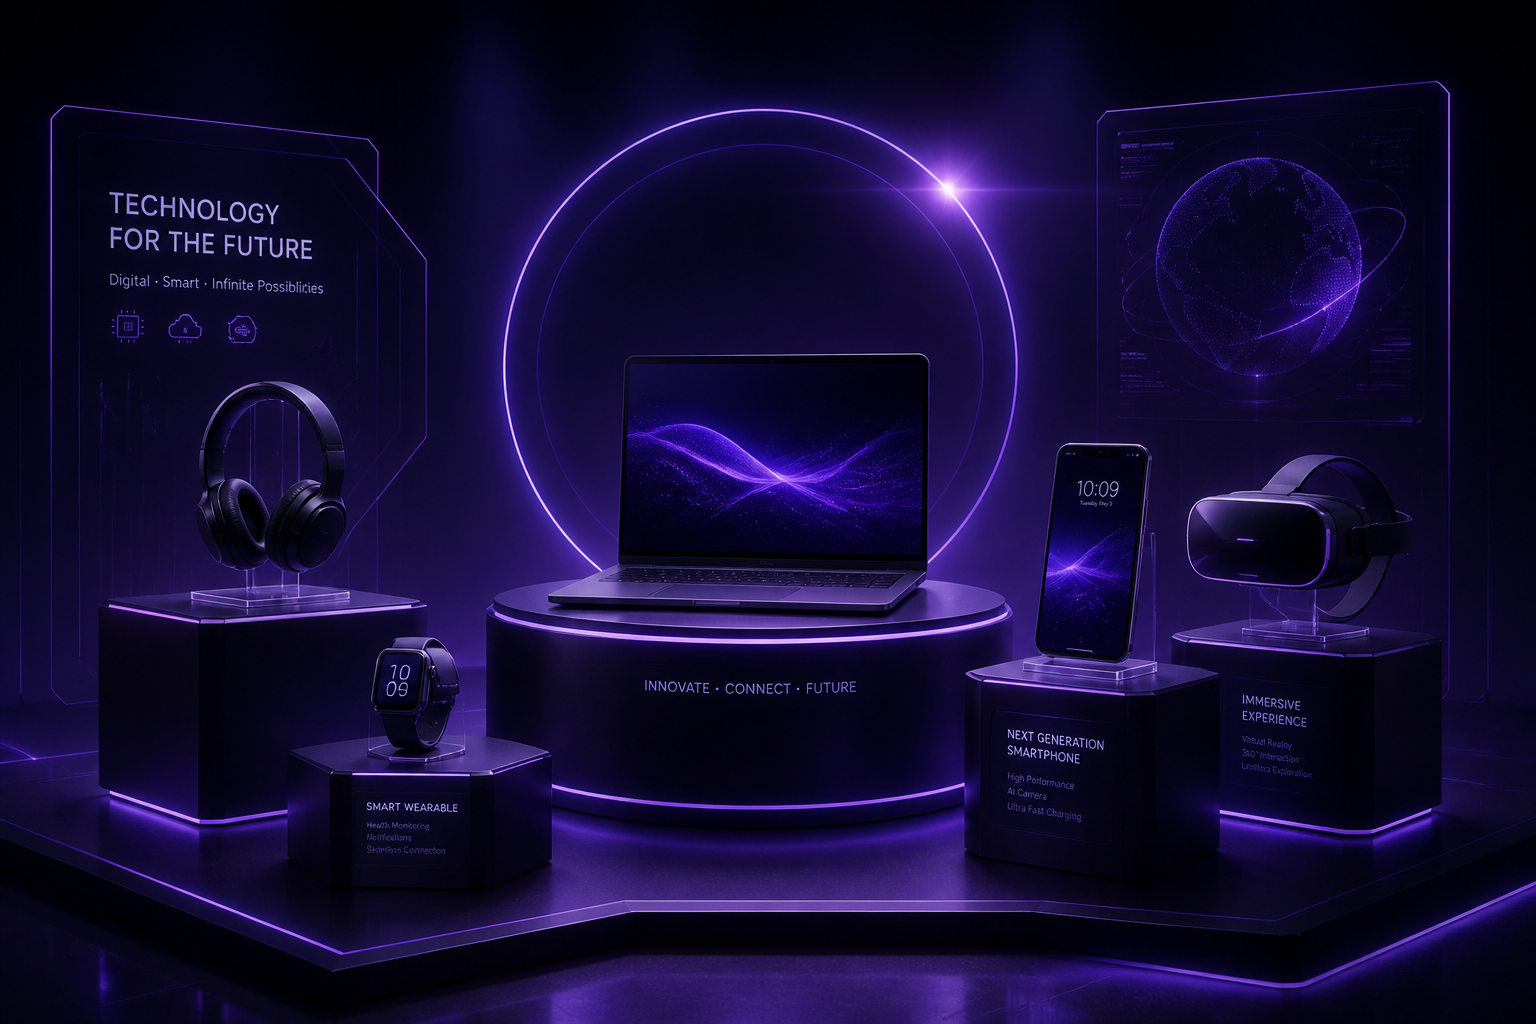
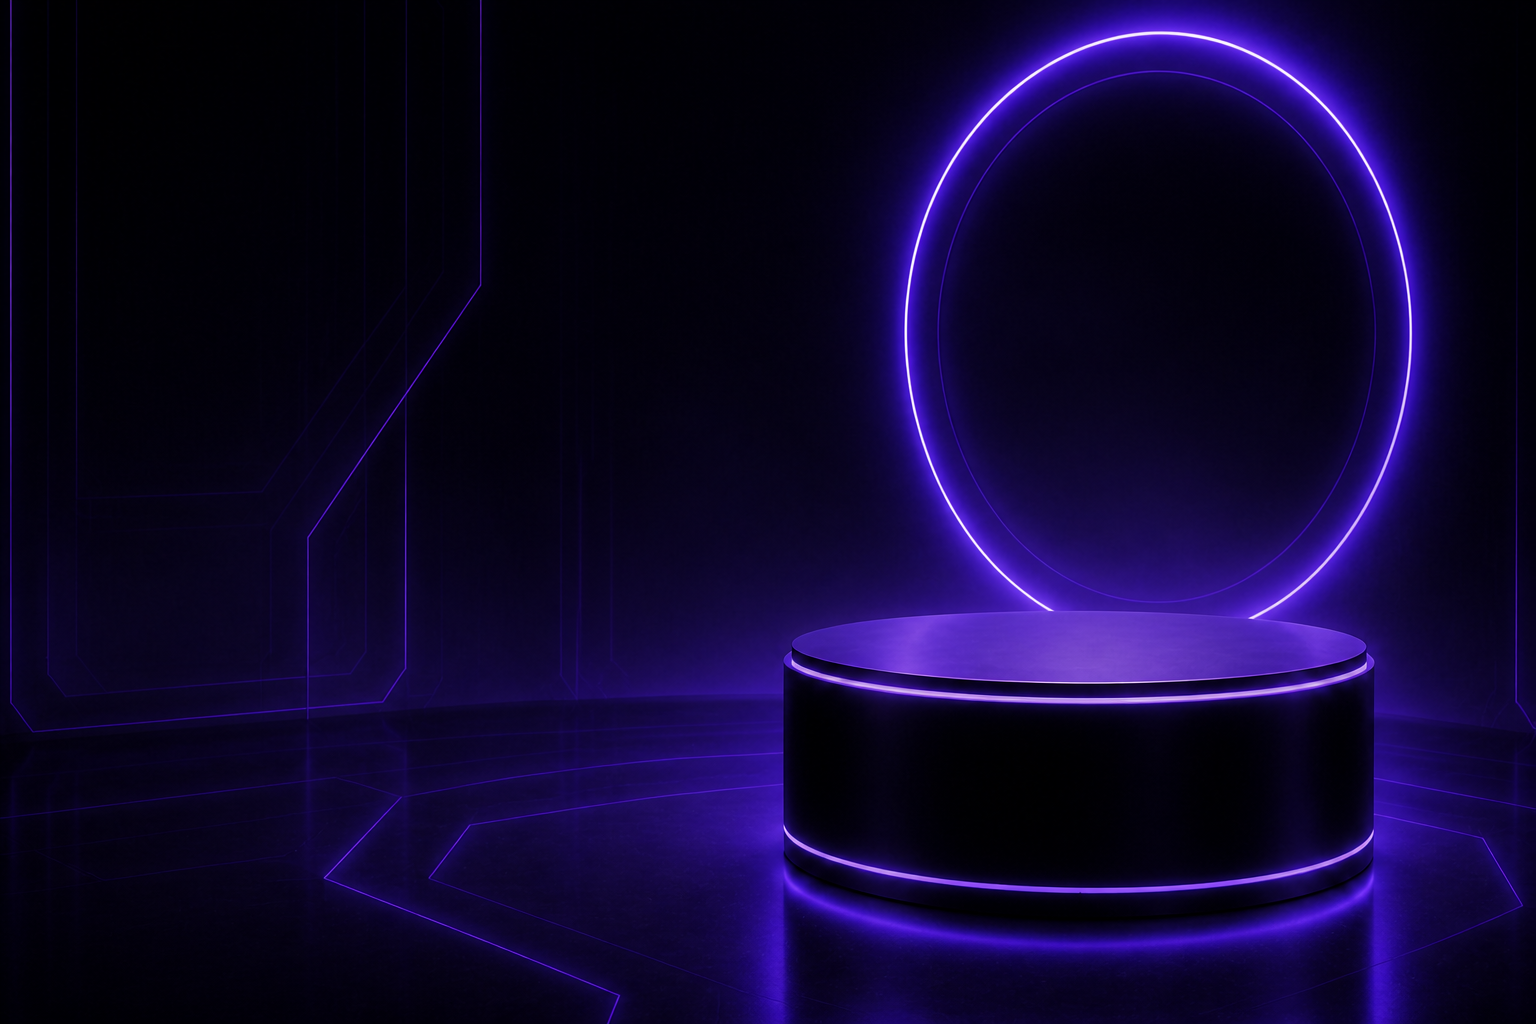
fix(series): use clean stage backdrop, drop the stock-mockup overlay
The Figma file had two hero backdrop images per series:
- the cluttered 'TECHNOLOGY FOR THE FUTURE' stock-mockup scene with
  laptop / phone / VR-headset placeholders + filler text
- a clean dark stage with neon ring + podium

We were rendering the cluttered scene as the bg layer with the clean
stage screen-blended on top, which left the mockup text and product
shapes faintly visible behind the hero copy.

- archive the stock-mockup PNGs to public/images/figma/<slug>-hero-stock-mockup.png
  (still on .vercelignore, kept in git for reference)
- promote the clean stage to the canonical hero-bg.png
- drop SeriesHero.overlayDefault and the second <Image> layer; the bg
  is now a single clean image + the existing CSS radial-gradient glow

Same change applied to all three series: line / advanced / embodied-intelligence.

diff --git a/src/data/series.ts b/src/data/series.ts
@@ -44,10 +44,8 @@ export interface SeriesHero {
   sideCards: string[];
   productImageSlot: string;
   productImageDefault: string;
-  /** Bottom layer — full-bleed dark texture. */
+  /** Full-bleed dark stage backdrop image. */
   backgroundDefault?: string;
-  /** Top layer — purple glow, blended on top of texture. */
-  overlayDefault?: string;
 }
 
 /** Shared 4-card "core features" block (same copy on every series). */
@@ -182,7 +180,6 @@ const lineSeries: SeriesData = {
     productImageSlot: "series-line-hero",
     productImageDefault: "/images/series/line/hero-product.png",
     backgroundDefault: "/images/series/line/hero-bg.png",
-    overlayDefault: "/images/series/line/hero-overlay.png",
   },
   coreFeatures: sharedCoreFeatures,
   coreAdvantages: [
@@ -299,7 +296,6 @@ const advancedSeries: SeriesData = {
     productImageSlot: "series-advanced-hero",
     productImageDefault: "/images/series/advanced/hero-product.png",
     backgroundDefault: "/images/series/advanced/hero-bg.png",
-    overlayDefault: "/images/series/advanced/hero-overlay.png",
   },
   coreFeatures: sharedCoreFeatures,
   coreAdvantages: [
@@ -418,7 +414,6 @@ const eiSeries: SeriesData = {
     productImageSlot: "series-ei-hero",
     productImageDefault: "/images/series/ei/hero-product.png",
     backgroundDefault: "/images/series/ei/hero-bg.png",
-    overlayDefault: "/images/series/ei/hero-overlay.png",
   },
   coreFeatures: sharedCoreFeatures,
   coreAdvantages: [

diff --git a/src/components/series/SeriesHero.tsx b/src/components/series/SeriesHero.tsx
@@ -18,7 +18,7 @@ const fadeUp = {
 export default function SeriesHeroSection({ data }: SeriesHeroProps) {
   return (
     <section className="relative isolate overflow-hidden bg-bg-primary pt-24 md:pt-32 pb-16 md:pb-24 min-h-[640px] md:min-h-[720px]">
-      {/* Layer 1 — full-bleed dark texture (Figma export). */}
+      {/* Full-bleed dark stage backdrop. */}
       {data.backgroundDefault && (
         <Image
           src={data.backgroundDefault}
@@ -27,18 +27,6 @@ export default function SeriesHeroSection({ data }: SeriesHeroProps) {
           priority
           sizes="100vw"
           className="absolute inset-0 object-cover pointer-events-none"
-        />
-      )}
-
-      {/* Layer 2 — purple glow overlay (blended on top of texture). */}
-      {data.overlayDefault && (
-        <Image
-          src={data.overlayDefault}
-          alt=""
-          fill
-          priority
-          sizes="100vw"
-          className="absolute inset-0 object-cover pointer-events-none mix-blend-screen opacity-90"
         />
       )}
 
